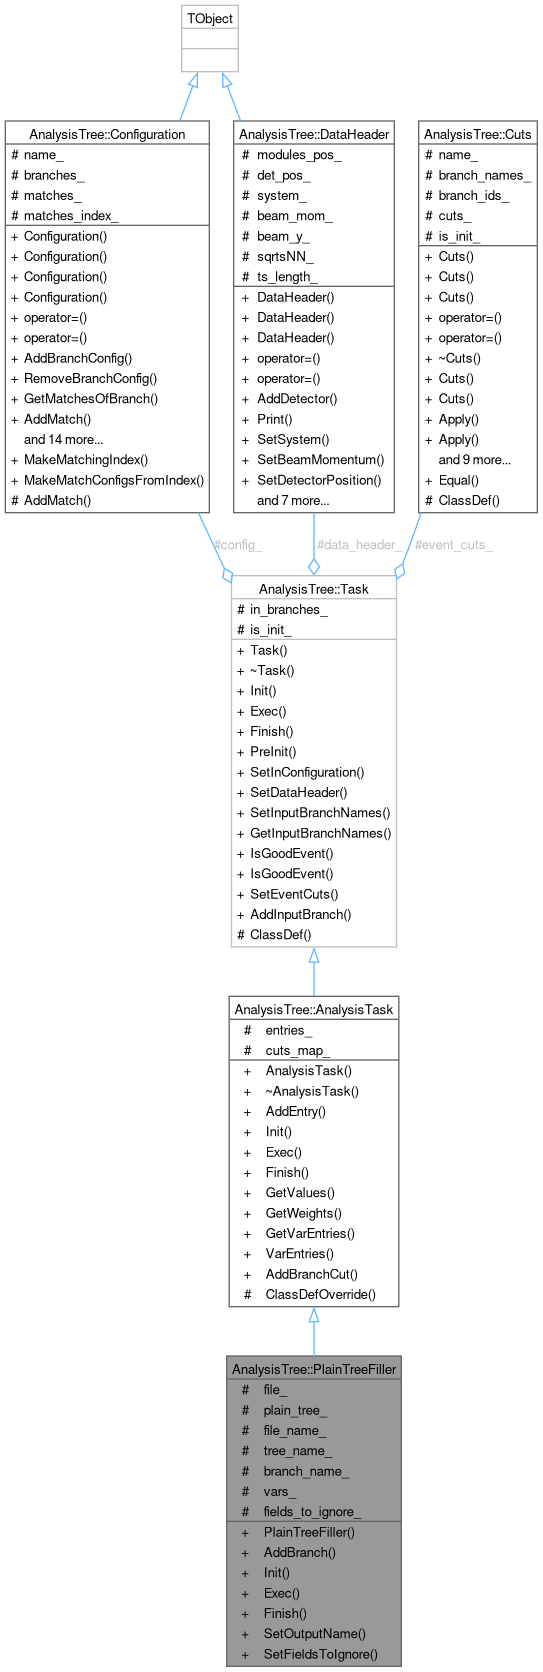
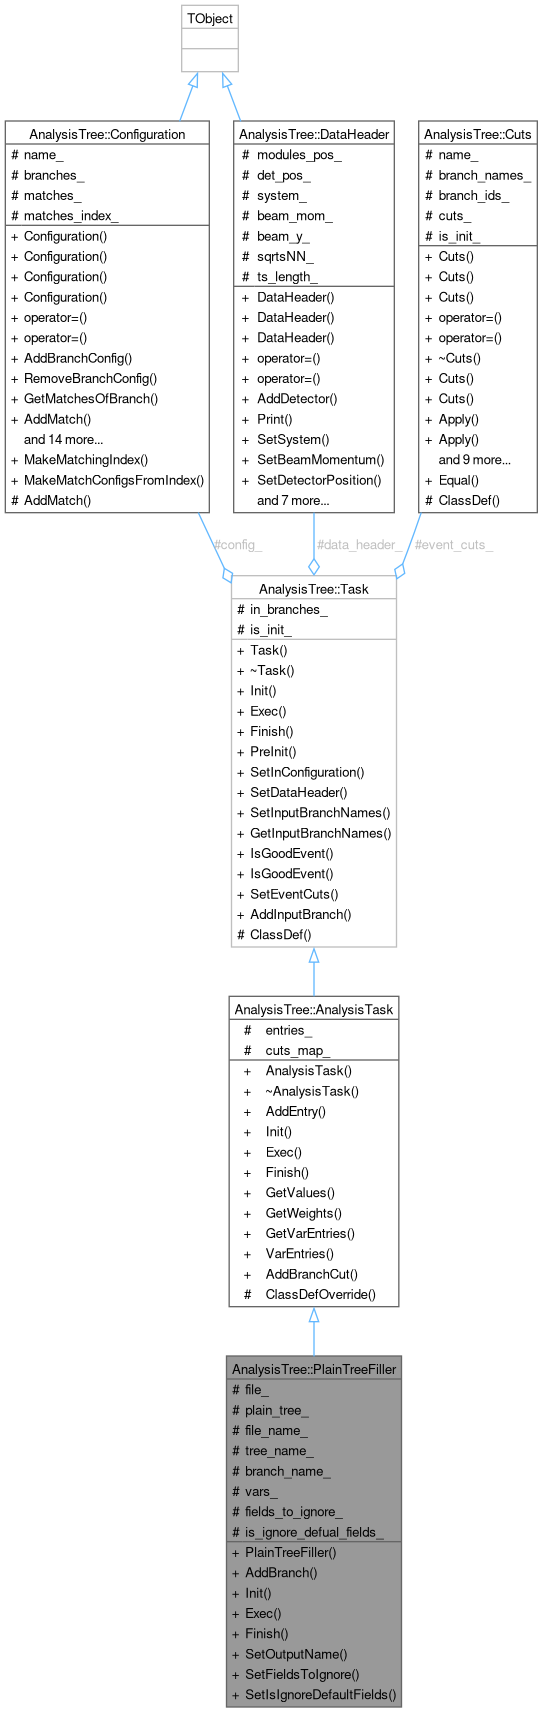
deploy: 88db1ee96a439fccecfc14b6ea6c0441b1f19204

Changed region(s): [[0.0, 0.0, 1.0, 1.0]]

diff --git a/da/d10/classAnalysisTree_1_1PlainTreeFiller-members.html b/da/d10/classAnalysisTree_1_1PlainTreeFiller-members.html
@@ -118,17 +118,19 @@ $(function(){ initResizable(false); });
   <tr bgcolor="#f0f0f0" class="odd"><td class="entry"><b>GetWeights</b>(int i_var) const (defined in <a class="el" href="../../d0/d40/classAnalysisTree_1_1AnalysisTask.html">AnalysisTree::AnalysisTask</a>)</td><td class="entry"><a class="el" href="../../d0/d40/classAnalysisTree_1_1AnalysisTask.html">AnalysisTree::AnalysisTask</a></td><td class="entry"><span class="mlabel">inline</span></td></tr>
   <tr bgcolor="#f0f0f0" class="even"><td class="entry"><b>in_branches_</b> (defined in <a class="el" href="../../d8/dcf/classAnalysisTree_1_1Task.html">AnalysisTree::Task</a>)</td><td class="entry"><a class="el" href="../../d8/dcf/classAnalysisTree_1_1Task.html">AnalysisTree::Task</a></td><td class="entry"><span class="mlabel">protected</span></td></tr>
   <tr bgcolor="#f0f0f0" class="odd"><td class="entry"><b>Init</b>() override (defined in <a class="el" href="../../d0/d41/classAnalysisTree_1_1PlainTreeFiller.html">AnalysisTree::PlainTreeFiller</a>)</td><td class="entry"><a class="el" href="../../d0/d41/classAnalysisTree_1_1PlainTreeFiller.html">AnalysisTree::PlainTreeFiller</a></td><td class="entry"><span class="mlabel">virtual</span></td></tr>
-  <tr bgcolor="#f0f0f0" class="even"><td class="entry"><b>is_init_</b> (defined in <a class="el" href="../../d8/dcf/classAnalysisTree_1_1Task.html">AnalysisTree::Task</a>)</td><td class="entry"><a class="el" href="../../d8/dcf/classAnalysisTree_1_1Task.html">AnalysisTree::Task</a></td><td class="entry"><span class="mlabel">protected</span></td></tr>
-  <tr bgcolor="#f0f0f0" class="odd"><td class="entry"><b>IsGoodEvent</b>(const EventHeader &amp;event_header) const (defined in <a class="el" href="../../d8/dcf/classAnalysisTree_1_1Task.html">AnalysisTree::Task</a>)</td><td class="entry"><a class="el" href="../../d8/dcf/classAnalysisTree_1_1Task.html">AnalysisTree::Task</a></td><td class="entry"><span class="mlabel">inline</span></td></tr>
-  <tr bgcolor="#f0f0f0" class="even"><td class="entry"><b>IsGoodEvent</b>(const Chain &amp;t) const (defined in <a class="el" href="../../d8/dcf/classAnalysisTree_1_1Task.html">AnalysisTree::Task</a>)</td><td class="entry"><a class="el" href="../../d8/dcf/classAnalysisTree_1_1Task.html">AnalysisTree::Task</a></td><td class="entry"></td></tr>
-  <tr bgcolor="#f0f0f0" class="odd"><td class="entry"><b>plain_tree_</b> (defined in <a class="el" href="../../d0/d41/classAnalysisTree_1_1PlainTreeFiller.html">AnalysisTree::PlainTreeFiller</a>)</td><td class="entry"><a class="el" href="../../d0/d41/classAnalysisTree_1_1PlainTreeFiller.html">AnalysisTree::PlainTreeFiller</a></td><td class="entry"><span class="mlabel">protected</span></td></tr>
-  <tr bgcolor="#f0f0f0" class="even"><td class="entry"><b>PlainTreeFiller</b>()=default (defined in <a class="el" href="../../d0/d41/classAnalysisTree_1_1PlainTreeFiller.html">AnalysisTree::PlainTreeFiller</a>)</td><td class="entry"><a class="el" href="../../d0/d41/classAnalysisTree_1_1PlainTreeFiller.html">AnalysisTree::PlainTreeFiller</a></td><td class="entry"></td></tr>
-  <tr bgcolor="#f0f0f0" class="odd"><td class="entry"><b>PreInit</b>() (defined in <a class="el" href="../../d8/dcf/classAnalysisTree_1_1Task.html">AnalysisTree::Task</a>)</td><td class="entry"><a class="el" href="../../d8/dcf/classAnalysisTree_1_1Task.html">AnalysisTree::Task</a></td><td class="entry"></td></tr>
-  <tr bgcolor="#f0f0f0" class="even"><td class="entry"><b>SetDataHeader</b>(const DataHeader *data_header) (defined in <a class="el" href="../../d8/dcf/classAnalysisTree_1_1Task.html">AnalysisTree::Task</a>)</td><td class="entry"><a class="el" href="../../d8/dcf/classAnalysisTree_1_1Task.html">AnalysisTree::Task</a></td><td class="entry"><span class="mlabel">inline</span></td></tr>
-  <tr bgcolor="#f0f0f0" class="odd"><td class="entry"><b>SetEventCuts</b>(Cuts *cuts) (defined in <a class="el" href="../../d8/dcf/classAnalysisTree_1_1Task.html">AnalysisTree::Task</a>)</td><td class="entry"><a class="el" href="../../d8/dcf/classAnalysisTree_1_1Task.html">AnalysisTree::Task</a></td><td class="entry"><span class="mlabel">inline</span></td></tr>
-  <tr bgcolor="#f0f0f0" class="even"><td class="entry"><b>SetFieldsToIgnore</b>(const std::vector&lt; std::string &gt; &amp;&amp;fields_to_ignore) (defined in <a class="el" href="../../d0/d41/classAnalysisTree_1_1PlainTreeFiller.html">AnalysisTree::PlainTreeFiller</a>)</td><td class="entry"><a class="el" href="../../d0/d41/classAnalysisTree_1_1PlainTreeFiller.html">AnalysisTree::PlainTreeFiller</a></td><td class="entry"></td></tr>
-  <tr bgcolor="#f0f0f0" class="odd"><td class="entry"><b>SetInConfiguration</b>(const Configuration *config) (defined in <a class="el" href="../../d8/dcf/classAnalysisTree_1_1Task.html">AnalysisTree::Task</a>)</td><td class="entry"><a class="el" href="../../d8/dcf/classAnalysisTree_1_1Task.html">AnalysisTree::Task</a></td><td class="entry"><span class="mlabel">inline</span></td></tr>
-  <tr bgcolor="#f0f0f0" class="even"><td class="entry"><b>SetInputBranchNames</b>(const std::set&lt; std::string &gt; &amp;br) (defined in <a class="el" href="../../d8/dcf/classAnalysisTree_1_1Task.html">AnalysisTree::Task</a>)</td><td class="entry"><a class="el" href="../../d8/dcf/classAnalysisTree_1_1Task.html">AnalysisTree::Task</a></td><td class="entry"><span class="mlabel">inline</span></td></tr>
+  <tr bgcolor="#f0f0f0" class="even"><td class="entry"><b>is_ignore_defual_fields_</b> (defined in <a class="el" href="../../d0/d41/classAnalysisTree_1_1PlainTreeFiller.html">AnalysisTree::PlainTreeFiller</a>)</td><td class="entry"><a class="el" href="../../d0/d41/classAnalysisTree_1_1PlainTreeFiller.html">AnalysisTree::PlainTreeFiller</a></td><td class="entry"><span class="mlabel">protected</span></td></tr>
+  <tr bgcolor="#f0f0f0" class="odd"><td class="entry"><b>is_init_</b> (defined in <a class="el" href="../../d8/dcf/classAnalysisTree_1_1Task.html">AnalysisTree::Task</a>)</td><td class="entry"><a class="el" href="../../d8/dcf/classAnalysisTree_1_1Task.html">AnalysisTree::Task</a></td><td class="entry"><span class="mlabel">protected</span></td></tr>
+  <tr bgcolor="#f0f0f0" class="even"><td class="entry"><b>IsGoodEvent</b>(const EventHeader &amp;event_header) const (defined in <a class="el" href="../../d8/dcf/classAnalysisTree_1_1Task.html">AnalysisTree::Task</a>)</td><td class="entry"><a class="el" href="../../d8/dcf/classAnalysisTree_1_1Task.html">AnalysisTree::Task</a></td><td class="entry"><span class="mlabel">inline</span></td></tr>
+  <tr bgcolor="#f0f0f0" class="odd"><td class="entry"><b>IsGoodEvent</b>(const Chain &amp;t) const (defined in <a class="el" href="../../d8/dcf/classAnalysisTree_1_1Task.html">AnalysisTree::Task</a>)</td><td class="entry"><a class="el" href="../../d8/dcf/classAnalysisTree_1_1Task.html">AnalysisTree::Task</a></td><td class="entry"></td></tr>
+  <tr bgcolor="#f0f0f0" class="even"><td class="entry"><b>plain_tree_</b> (defined in <a class="el" href="../../d0/d41/classAnalysisTree_1_1PlainTreeFiller.html">AnalysisTree::PlainTreeFiller</a>)</td><td class="entry"><a class="el" href="../../d0/d41/classAnalysisTree_1_1PlainTreeFiller.html">AnalysisTree::PlainTreeFiller</a></td><td class="entry"><span class="mlabel">protected</span></td></tr>
+  <tr bgcolor="#f0f0f0" class="odd"><td class="entry"><b>PlainTreeFiller</b>()=default (defined in <a class="el" href="../../d0/d41/classAnalysisTree_1_1PlainTreeFiller.html">AnalysisTree::PlainTreeFiller</a>)</td><td class="entry"><a class="el" href="../../d0/d41/classAnalysisTree_1_1PlainTreeFiller.html">AnalysisTree::PlainTreeFiller</a></td><td class="entry"></td></tr>
+  <tr bgcolor="#f0f0f0" class="even"><td class="entry"><b>PreInit</b>() (defined in <a class="el" href="../../d8/dcf/classAnalysisTree_1_1Task.html">AnalysisTree::Task</a>)</td><td class="entry"><a class="el" href="../../d8/dcf/classAnalysisTree_1_1Task.html">AnalysisTree::Task</a></td><td class="entry"></td></tr>
+  <tr bgcolor="#f0f0f0" class="odd"><td class="entry"><b>SetDataHeader</b>(const DataHeader *data_header) (defined in <a class="el" href="../../d8/dcf/classAnalysisTree_1_1Task.html">AnalysisTree::Task</a>)</td><td class="entry"><a class="el" href="../../d8/dcf/classAnalysisTree_1_1Task.html">AnalysisTree::Task</a></td><td class="entry"><span class="mlabel">inline</span></td></tr>
+  <tr bgcolor="#f0f0f0" class="even"><td class="entry"><b>SetEventCuts</b>(Cuts *cuts) (defined in <a class="el" href="../../d8/dcf/classAnalysisTree_1_1Task.html">AnalysisTree::Task</a>)</td><td class="entry"><a class="el" href="../../d8/dcf/classAnalysisTree_1_1Task.html">AnalysisTree::Task</a></td><td class="entry"><span class="mlabel">inline</span></td></tr>
+  <tr bgcolor="#f0f0f0" class="odd"><td class="entry"><b>SetFieldsToIgnore</b>(const std::vector&lt; std::string &gt; &amp;&amp;fields_to_ignore) (defined in <a class="el" href="../../d0/d41/classAnalysisTree_1_1PlainTreeFiller.html">AnalysisTree::PlainTreeFiller</a>)</td><td class="entry"><a class="el" href="../../d0/d41/classAnalysisTree_1_1PlainTreeFiller.html">AnalysisTree::PlainTreeFiller</a></td><td class="entry"></td></tr>
+  <tr bgcolor="#f0f0f0" class="even"><td class="entry"><b>SetInConfiguration</b>(const Configuration *config) (defined in <a class="el" href="../../d8/dcf/classAnalysisTree_1_1Task.html">AnalysisTree::Task</a>)</td><td class="entry"><a class="el" href="../../d8/dcf/classAnalysisTree_1_1Task.html">AnalysisTree::Task</a></td><td class="entry"><span class="mlabel">inline</span></td></tr>
+  <tr bgcolor="#f0f0f0" class="odd"><td class="entry"><b>SetInputBranchNames</b>(const std::set&lt; std::string &gt; &amp;br) (defined in <a class="el" href="../../d8/dcf/classAnalysisTree_1_1Task.html">AnalysisTree::Task</a>)</td><td class="entry"><a class="el" href="../../d8/dcf/classAnalysisTree_1_1Task.html">AnalysisTree::Task</a></td><td class="entry"><span class="mlabel">inline</span></td></tr>
+  <tr bgcolor="#f0f0f0" class="even"><td class="entry"><b>SetIsIgnoreDefaultFields</b>(bool is=true) (defined in <a class="el" href="../../d0/d41/classAnalysisTree_1_1PlainTreeFiller.html">AnalysisTree::PlainTreeFiller</a>)</td><td class="entry"><a class="el" href="../../d0/d41/classAnalysisTree_1_1PlainTreeFiller.html">AnalysisTree::PlainTreeFiller</a></td><td class="entry"><span class="mlabel">inline</span></td></tr>
   <tr bgcolor="#f0f0f0" class="odd"><td class="entry"><b>SetOutputName</b>(std::string file, std::string tree) (defined in <a class="el" href="../../d0/d41/classAnalysisTree_1_1PlainTreeFiller.html">AnalysisTree::PlainTreeFiller</a>)</td><td class="entry"><a class="el" href="../../d0/d41/classAnalysisTree_1_1PlainTreeFiller.html">AnalysisTree::PlainTreeFiller</a></td><td class="entry"><span class="mlabel">inline</span></td></tr>
   <tr bgcolor="#f0f0f0" class="even"><td class="entry"><b>Task</b>()=default (defined in <a class="el" href="../../d8/dcf/classAnalysisTree_1_1Task.html">AnalysisTree::Task</a>)</td><td class="entry"><a class="el" href="../../d8/dcf/classAnalysisTree_1_1Task.html">AnalysisTree::Task</a></td><td class="entry"></td></tr>
   <tr bgcolor="#f0f0f0" class="odd"><td class="entry"><b>tree_name_</b> (defined in <a class="el" href="../../d0/d41/classAnalysisTree_1_1PlainTreeFiller.html">AnalysisTree::PlainTreeFiller</a>)</td><td class="entry"><a class="el" href="../../d0/d41/classAnalysisTree_1_1PlainTreeFiller.html">AnalysisTree::PlainTreeFiller</a></td><td class="entry"><span class="mlabel">protected</span></td></tr>

diff --git a/d0/d41/classAnalysisTree_1_1PlainTreeFiller.html b/d0/d41/classAnalysisTree_1_1PlainTreeFiller.html
@@ -100,11 +100,11 @@ Inheritance diagram for AnalysisTree::PlainTreeFiller:</div>
 <div class="dyncontent">
 <div class="center"><img src="../../d0/d55/classAnalysisTree_1_1PlainTreeFiller__inherit__graph.png" border="0" usemap="#aAnalysisTree_1_1PlainTreeFiller_inherit__map" alt="Inheritance graph"/></div>
 <map name="aAnalysisTree_1_1PlainTreeFiller_inherit__map" id="aAnalysisTree_1_1PlainTreeFiller_inherit__map">
-<area shape="rect" title=" " alt="" coords="5,844,180,1154"/>
+<area shape="rect" title=" " alt="" coords="5,844,180,1195"/>
 <area shape="rect" href="../../d0/d40/classAnalysisTree_1_1AnalysisTask.html" title="AnalysisTask is a Task which keeps list of AnalysisEntry&#45;s It evaluates Variables according to the ru..." alt="" coords="8,486,178,796"/>
-<area shape="poly" title=" " alt="" coords="95,811,95,844,90,844,90,811"/>
+<area shape="poly" title=" " alt="" coords="96,811,96,844,90,844,90,811"/>
 <area shape="rect" href="../../d8/dcf/classAnalysisTree_1_1Task.html" title=" " alt="" coords="10,5,175,438"/>
-<area shape="poly" title=" " alt="" coords="95,453,95,486,90,486,90,453"/>
+<area shape="poly" title=" " alt="" coords="96,453,96,486,90,486,90,453"/>
 </map>
 </div>
 <div class="dynheader">
@@ -112,7 +112,7 @@ Collaboration diagram for AnalysisTree::PlainTreeFiller:</div>
 <div class="dyncontent">
 <div class="center"><img src="../../d1/d7e/classAnalysisTree_1_1PlainTreeFiller__coll__graph.png" border="0" usemap="#aAnalysisTree_1_1PlainTreeFiller_coll__map" alt="Collaboration graph"/></div>
 <map name="aAnalysisTree_1_1PlainTreeFiller_coll__map" id="aAnalysisTree_1_1PlainTreeFiller_coll__map">
-<area shape="rect" title=" " alt="" coords="227,1356,401,1666"/>
+<area shape="rect" title=" " alt="" coords="226,1356,402,1707"/>
 <area shape="rect" href="../../d0/d40/classAnalysisTree_1_1AnalysisTask.html" title="AnalysisTask is a Task which keeps list of AnalysisEntry&#45;s It evaluates Variables according to the ru..." alt="" coords="229,996,399,1307"/>
 <area shape="poly" title=" " alt="" coords="317,1322,317,1356,311,1356,311,1322"/>
 <area shape="rect" href="../../d8/dcf/classAnalysisTree_1_1Task.html" title=" " alt="" coords="232,576,396,947"/>
@@ -146,6 +146,9 @@ void&#160;</td><td class="memItemRight" valign="bottom"><b>SetOutputName</b> (st
 <tr class="memitem:a18343253085ffd7ee700c45cca8baa64" id="r_a18343253085ffd7ee700c45cca8baa64"><td class="memItemLeft" align="right" valign="top"><a id="a18343253085ffd7ee700c45cca8baa64" name="a18343253085ffd7ee700c45cca8baa64"></a>
 void&#160;</td><td class="memItemRight" valign="bottom"><b>SetFieldsToIgnore</b> (const std::vector&lt; std::string &gt; &amp;&amp;fields_to_ignore)</td></tr>
 <tr class="separator:a18343253085ffd7ee700c45cca8baa64"><td class="memSeparator" colspan="2">&#160;</td></tr>
+<tr class="memitem:a008dc72ec1e02939436046346fa22d9e" id="r_a008dc72ec1e02939436046346fa22d9e"><td class="memItemLeft" align="right" valign="top"><a id="a008dc72ec1e02939436046346fa22d9e" name="a008dc72ec1e02939436046346fa22d9e"></a>
+void&#160;</td><td class="memItemRight" valign="bottom"><b>SetIsIgnoreDefaultFields</b> (bool is=true)</td></tr>
+<tr class="separator:a008dc72ec1e02939436046346fa22d9e"><td class="memSeparator" colspan="2">&#160;</td></tr>
 <tr class="inherit_header pub_methods_classAnalysisTree_1_1AnalysisTask"><td colspan="2" onclick="javascript:dynsection.toggleInherit('pub_methods_classAnalysisTree_1_1AnalysisTask')"><img src="../../closed.png" alt="-"/>&#160;Public Member Functions inherited from <a class="el" href="../../d0/d40/classAnalysisTree_1_1AnalysisTask.html">AnalysisTree::AnalysisTask</a></td></tr>
 <tr class="memitem:a55a89172eeb83e4cb3a183b709470e8b inherit pub_methods_classAnalysisTree_1_1AnalysisTask" id="r_a55a89172eeb83e4cb3a183b709470e8b"><td class="memItemLeft" align="right" valign="top">
 std::pair&lt; int, std::vector&lt; int &gt; &gt;&#160;</td><td class="memItemRight" valign="bottom"><b>AddEntry</b> (const <a class="el" href="../../d4/d1b/classAnalysisTree_1_1AnalysisEntry.html">AnalysisEntry</a> &amp;vars)</td></tr>
@@ -217,6 +220,9 @@ std::vector&lt; float &gt;&#160;</td><td class="memItemRight" valign="bottom"><b
 <tr class="memitem:a38fa3b44ea83885c8ca92c5c9ee89c41" id="r_a38fa3b44ea83885c8ca92c5c9ee89c41"><td class="memItemLeft" align="right" valign="top"><a id="a38fa3b44ea83885c8ca92c5c9ee89c41" name="a38fa3b44ea83885c8ca92c5c9ee89c41"></a>
 std::vector&lt; std::string &gt;&#160;</td><td class="memItemRight" valign="bottom"><b>fields_to_ignore_</b> {}</td></tr>
 <tr class="separator:a38fa3b44ea83885c8ca92c5c9ee89c41"><td class="memSeparator" colspan="2">&#160;</td></tr>
+<tr class="memitem:adeb04c4c3a57db86d1e144b54fec8155" id="r_adeb04c4c3a57db86d1e144b54fec8155"><td class="memItemLeft" align="right" valign="top"><a id="adeb04c4c3a57db86d1e144b54fec8155" name="adeb04c4c3a57db86d1e144b54fec8155"></a>
+bool&#160;</td><td class="memItemRight" valign="bottom"><b>is_ignore_defual_fields_</b> {false}</td></tr>
+<tr class="separator:adeb04c4c3a57db86d1e144b54fec8155"><td class="memSeparator" colspan="2">&#160;</td></tr>
 <tr class="inherit_header pro_attribs_classAnalysisTree_1_1AnalysisTask"><td colspan="2" onclick="javascript:dynsection.toggleInherit('pro_attribs_classAnalysisTree_1_1AnalysisTask')"><img src="../../closed.png" alt="-"/>&#160;Protected Attributes inherited from <a class="el" href="../../d0/d40/classAnalysisTree_1_1AnalysisTask.html">AnalysisTree::AnalysisTask</a></td></tr>
 <tr class="memitem:a1e34fdd548f185264ff03d97e1b6574d inherit pro_attribs_classAnalysisTree_1_1AnalysisTask" id="r_a1e34fdd548f185264ff03d97e1b6574d"><td class="memItemLeft" align="right" valign="top">
 std::vector&lt; <a class="el" href="../../d4/d1b/classAnalysisTree_1_1AnalysisEntry.html">AnalysisEntry</a> &gt;&#160;</td><td class="memItemRight" valign="bottom"><b>entries_</b> {}</td></tr>

diff --git a/db/da4/PlainTreeFiller_8hpp_source.html b/db/da4/PlainTreeFiller_8hpp_source.html
@@ -123,22 +123,26 @@ $(function(){ initResizable(false); });
 <div class="line"><a id="l00029" name="l00029"></a><span class="lineno">   29</span> </div>
 <div class="line"><a id="l00030" name="l00030"></a><span class="lineno">   30</span>  <span class="keywordtype">void</span> SetFieldsToIgnore(<span class="keyword">const</span> std::vector&lt;std::string&gt;&amp;&amp; fields_to_ignore);</div>
 <div class="line"><a id="l00031" name="l00031"></a><span class="lineno">   31</span> </div>
-<div class="line"><a id="l00032" name="l00032"></a><span class="lineno">   32</span> <span class="keyword">protected</span>:</div>
-<div class="line"><a id="l00033" name="l00033"></a><span class="lineno">   33</span>  TFile* file_{<span class="keyword">nullptr</span>};</div>
-<div class="line"><a id="l00034" name="l00034"></a><span class="lineno">   34</span>  TTree* plain_tree_{<span class="keyword">nullptr</span>};</div>
-<div class="line"><a id="l00035" name="l00035"></a><span class="lineno">   35</span> </div>
-<div class="line"><a id="l00036" name="l00036"></a><span class="lineno">   36</span>  std::string file_name_{<span class="stringliteral">&quot;PlainTree.root&quot;</span>};</div>
-<div class="line"><a id="l00037" name="l00037"></a><span class="lineno">   37</span>  std::string tree_name_{<span class="stringliteral">&quot;PlainTree&quot;</span>};</div>
-<div class="line"><a id="l00038" name="l00038"></a><span class="lineno">   38</span>  std::string branch_name_;</div>
-<div class="line"><a id="l00039" name="l00039"></a><span class="lineno">   39</span> </div>
-<div class="line"><a id="l00040" name="l00040"></a><span class="lineno">   40</span>  std::vector&lt;float&gt; vars_{};</div>
-<div class="line"><a id="l00041" name="l00041"></a><span class="lineno">   41</span>  std::vector&lt;std::string&gt; fields_to_ignore_{};</div>
-<div class="line"><a id="l00042" name="l00042"></a><span class="lineno">   42</span>};</div>
+<div class="line"><a id="l00032" name="l00032"></a><span class="lineno">   32</span>  <span class="keywordtype">void</span> SetIsIgnoreDefaultFields(<span class="keywordtype">bool</span> is = <span class="keyword">true</span>) { is_ignore_defual_fields_ = is; }</div>
+<div class="line"><a id="l00033" name="l00033"></a><span class="lineno">   33</span> </div>
+<div class="line"><a id="l00034" name="l00034"></a><span class="lineno">   34</span> <span class="keyword">protected</span>:</div>
+<div class="line"><a id="l00035" name="l00035"></a><span class="lineno">   35</span>  TFile* file_{<span class="keyword">nullptr</span>};</div>
+<div class="line"><a id="l00036" name="l00036"></a><span class="lineno">   36</span>  TTree* plain_tree_{<span class="keyword">nullptr</span>};</div>
+<div class="line"><a id="l00037" name="l00037"></a><span class="lineno">   37</span> </div>
+<div class="line"><a id="l00038" name="l00038"></a><span class="lineno">   38</span>  std::string file_name_{<span class="stringliteral">&quot;PlainTree.root&quot;</span>};</div>
+<div class="line"><a id="l00039" name="l00039"></a><span class="lineno">   39</span>  std::string tree_name_{<span class="stringliteral">&quot;PlainTree&quot;</span>};</div>
+<div class="line"><a id="l00040" name="l00040"></a><span class="lineno">   40</span>  std::string branch_name_;</div>
+<div class="line"><a id="l00041" name="l00041"></a><span class="lineno">   41</span> </div>
+<div class="line"><a id="l00042" name="l00042"></a><span class="lineno">   42</span>  std::vector&lt;float&gt; vars_{};</div>
+<div class="line"><a id="l00043" name="l00043"></a><span class="lineno">   43</span>  std::vector&lt;std::string&gt; fields_to_ignore_{};</div>
+<div class="line"><a id="l00044" name="l00044"></a><span class="lineno">   44</span> </div>
+<div class="line"><a id="l00045" name="l00045"></a><span class="lineno">   45</span>  <span class="keywordtype">bool</span> is_ignore_defual_fields_{<span class="keyword">false</span>};</div>
+<div class="line"><a id="l00046" name="l00046"></a><span class="lineno">   46</span>};</div>
 </div>
-<div class="line"><a id="l00043" name="l00043"></a><span class="lineno">   43</span> </div>
-<div class="line"><a id="l00044" name="l00044"></a><span class="lineno">   44</span>}<span class="comment">// namespace AnalysisTree</span></div>
-<div class="line"><a id="l00045" name="l00045"></a><span class="lineno">   45</span> </div>
-<div class="line"><a id="l00046" name="l00046"></a><span class="lineno">   46</span><span class="preprocessor">#endif</span><span class="comment">//ANALYSISTREE_PLAINTREEFILLER_H_</span></div>
+<div class="line"><a id="l00047" name="l00047"></a><span class="lineno">   47</span> </div>
+<div class="line"><a id="l00048" name="l00048"></a><span class="lineno">   48</span>}<span class="comment">// namespace AnalysisTree</span></div>
+<div class="line"><a id="l00049" name="l00049"></a><span class="lineno">   49</span> </div>
+<div class="line"><a id="l00050" name="l00050"></a><span class="lineno">   50</span><span class="preprocessor">#endif</span><span class="comment">//ANALYSISTREE_PLAINTREEFILLER_H_</span></div>
 <div class="ttc" id="anamespaceAnalysisTree_html"><div class="ttname"><a href="../../d9/d26/namespaceAnalysisTree.html">AnalysisTree</a></div><div class="ttdoc">Cuts keep list of SimpleCuts. Logical AND is applied for all SimpleCut in the Cuts object.</div><div class="ttdef"><b>Definition</b> BranchConfig.cpp:10</div></div>
 </div><!-- fragment --></div><!-- contents -->
 <!-- start footer part -->

diff --git a/d8/dcf/classAnalysisTree_1_1Task.html b/d8/dcf/classAnalysisTree_1_1Task.html
@@ -103,15 +103,15 @@ Inheritance diagram for AnalysisTree::Task:</div>
 <map name="aAnalysisTree_1_1Task_inherit__map" id="aAnalysisTree_1_1Task_inherit__map">
 <area shape="rect" title=" " alt="" coords="265,5,430,438"/>
 <area shape="rect" href="../../d0/d40/classAnalysisTree_1_1AnalysisTask.html" title="AnalysisTask is a Task which keeps list of AnalysisEntry&#45;s It evaluates Variables according to the ru..." alt="" coords="8,574,178,885"/>
-<area shape="poly" title=" " alt="" coords="259,364,191,487,151,576,147,573,186,484,255,362"/>
+<area shape="poly" title=" " alt="" coords="259,364,191,487,152,576,147,573,186,484,255,362"/>
 <area shape="rect" href="../../d1/df3/classAnalysisTree_1_1ToyMC.html" title=" " alt="" coords="201,486,339,974"/>
-<area shape="poly" title=" " alt="" coords="315,453,310,486,304,486,310,452"/>
+<area shape="poly" title=" " alt="" coords="315,453,310,486,305,486,310,452"/>
 <area shape="rect" href="../../d4/d4e/classUserTaskRead.html" title=" " alt="" coords="363,656,489,804"/>
-<area shape="poly" title=" " alt="" coords="386,452,417,656,412,657,380,453"/>
+<area shape="poly" title=" " alt="" coords="386,452,418,656,412,657,381,453"/>
 <area shape="rect" href="../../d0/d27/classUserTaskWrite.html" title=" " alt="" coords="514,656,640,804"/>
-<area shape="poly" title=" " alt="" coords="440,362,473,423,503,485,536,572,561,655,556,657,531,574,498,487,468,425,435,365"/>
-<area shape="rect" href="../../d0/d41/classAnalysisTree_1_1PlainTreeFiller.html" title=" " alt="" coords="5,1022,180,1332"/>
-<area shape="poly" title=" " alt="" coords="95,900,95,1022,90,1022,90,900"/>
+<area shape="poly" title=" " alt="" coords="440,362,473,423,503,485,537,572,561,655,556,657,531,574,498,487,468,425,435,365"/>
+<area shape="rect" href="../../d0/d41/classAnalysisTree_1_1PlainTreeFiller.html" title=" " alt="" coords="5,1022,180,1373"/>
+<area shape="poly" title=" " alt="" coords="96,900,96,1022,90,1022,90,900"/>
 </map>
 </div>
 <div class="dynheader">

diff --git a/d0/d40/classAnalysisTree_1_1AnalysisTask.html b/d0/d40/classAnalysisTree_1_1AnalysisTask.html
@@ -107,10 +107,10 @@ Inheritance diagram for AnalysisTree::AnalysisTask:</div>
 <div class="center"><img src="../../d8/d40/classAnalysisTree_1_1AnalysisTask__inherit__graph.png" border="0" usemap="#aAnalysisTree_1_1AnalysisTask_inherit__map" alt="Inheritance graph"/></div>
 <map name="aAnalysisTree_1_1AnalysisTask_inherit__map" id="aAnalysisTree_1_1AnalysisTask_inherit__map">
 <area shape="rect" title="AnalysisTask is a Task which keeps list of AnalysisEntry&#45;s It evaluates Variables according to the ru..." alt="" coords="8,486,178,796"/>
-<area shape="rect" href="../../d0/d41/classAnalysisTree_1_1PlainTreeFiller.html" title=" " alt="" coords="5,844,180,1154"/>
-<area shape="poly" title=" " alt="" coords="95,811,95,844,90,844,90,811"/>
+<area shape="rect" href="../../d0/d41/classAnalysisTree_1_1PlainTreeFiller.html" title=" " alt="" coords="5,844,180,1195"/>
+<area shape="poly" title=" " alt="" coords="96,811,96,844,90,844,90,811"/>
 <area shape="rect" href="../../d8/dcf/classAnalysisTree_1_1Task.html" title=" " alt="" coords="10,5,175,438"/>
-<area shape="poly" title=" " alt="" coords="95,453,95,486,90,486,90,453"/>
+<area shape="poly" title=" " alt="" coords="96,453,96,486,90,486,90,453"/>
 </map>
 </div>
 <div class="dynheader">
